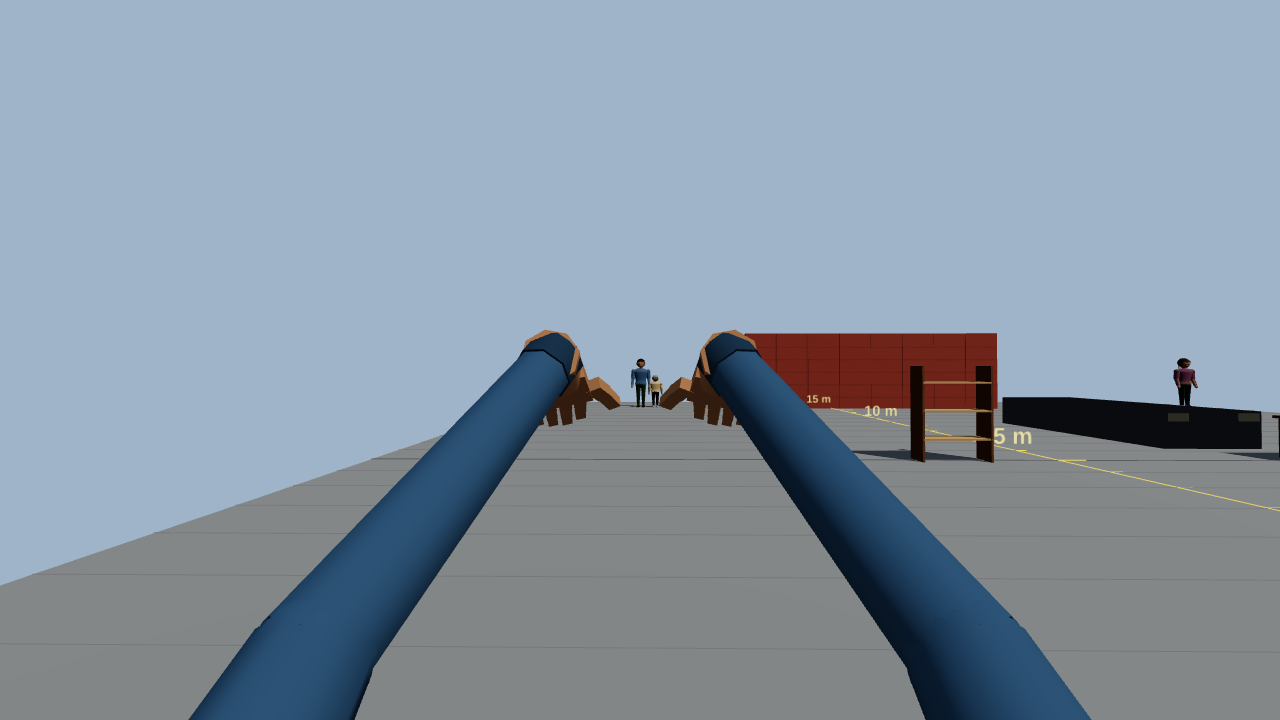
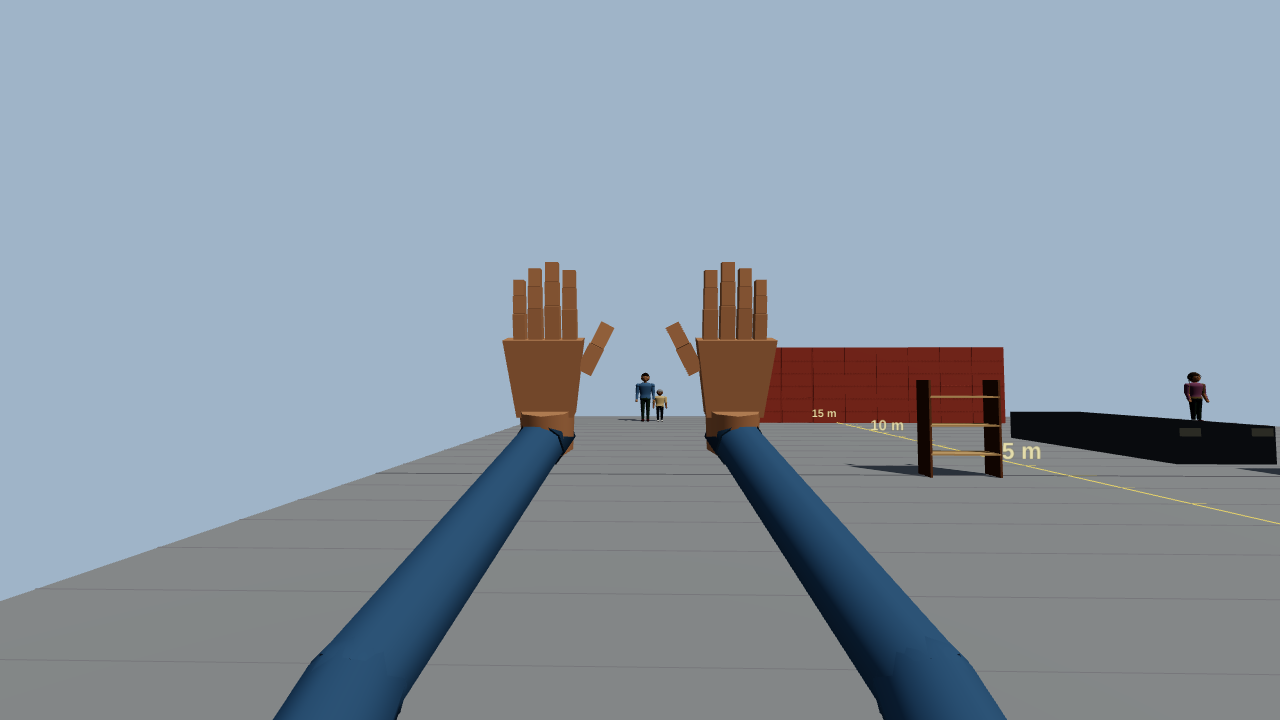
fix(game-characters-three, game-weapons-three): visible pistol support hand, pistol reload to the magazine, handguard hold, shove palms forward
The clip orientation never reached the hand (mixPose wrote over its own input): fixed. Handguns ride higher and nearer the middle so both hands stay in view; the pistol's reload target is under the magazine base; the support hand on long guns sits at 60% of the handguard; the shove has palms forward, fingers up. Tests added; screenshots retaken (fp-pistol-reload new).

Claude-Session: https://claude.ai/code/session_01GuPQ3pcqCNyJdQZbaF8AdD

Changed region(s): [[0.0, 0.3667, 1.0, 1.0], [0.9688, 0.7028, 1.0, 0.7333]]

diff --git a/packages/game-weapons-three/tests/hand-targets.test.ts b/packages/game-weapons-three/tests/hand-targets.test.ts
@@ -106,4 +106,52 @@ describe('hand targets of the weapon in the hands', () => {
     const second = last()!.targets!.R!.position
     expect(Math.hypot(second[0] - first[0], second[1] - first[1], second[2] - first[2])).toBeGreaterThan(0.001)
   })
+
+  it('a pistol reload takes the supporting hand off the grip, to the magazine, and back', () => {
+    const { room, last } = roomWithRecorder()
+    equip(room, 'glock_17')
+    const rest = last()!.targets!.L!.position.slice()
+    room.use()
+    run(room, 0.2)
+    window.dispatchEvent(new KeyboardEvent('keydown', { code: 'KeyR' }))
+    let farthest = 0
+    for (let i = 0; i < 100; i++) {
+      room.update(0.02)
+      const p = last()!.targets!.L!.position
+      farthest = Math.max(farthest, Math.hypot(p[0] - rest[0], p[1] - rest[1], p[2] - rest[2]))
+    }
+    expect(farthest).toBeGreaterThan(0.03)
+    run(room, 3)
+    const back = last()!.targets!.L!.position
+    expect(Math.hypot(back[0] - rest[0], back[1] - rest[1], back[2] - rest[2])).toBeLessThan(0.02)
+  })
+
+  it('both hands of a pistol are inside the view, in front of the camera and not at the bottom edge', () => {
+    const { room, last } = roomWithRecorder()
+    equip(room, 'glock_17')
+    const eye = room.camera
+    for (const side of ['R', 'L'] as const) {
+      const local = eye.worldToLocal(new THREE.Vector3(...last()!.targets![side]!.position))
+      expect(local.z).toBeLessThan(-0.25)
+      expect(Math.atan2(-local.y, -local.z)).toBeLessThan(0.55)
+      expect(Math.abs(Math.atan2(local.x, -local.z))).toBeLessThan(0.5)
+    }
+  })
+
+  it.each(['colt_m4a1', 'ak_47'])('%s: the left hand is under the handguard, past the receiver, about 60 percent of the way to its end', (weapon) => {
+    const { room, last } = roomWithRecorder()
+    equip(room, weapon)
+    const viewmodel = room.scene.getObjectByName('weapon-viewmodel')!
+    viewmodel.updateWorldMatrix(true, true)
+    const inverse = viewmodel.matrixWorld.clone().invert()
+    const box = new THREE.Box3().setFromObject(viewmodel).applyMatrix4(inverse)
+    const left = new THREE.Vector3(...last()!.targets!.L!.position).applyMatrix4(inverse)
+    const right = new THREE.Vector3(...last()!.targets!.R!.position).applyMatrix4(inverse)
+    // the gun lies along -z of the viewmodel (muzzle at min z); the left hand is forward of the right and in the front half
+    const along = (box.max.z - left.z) / (box.max.z - box.min.z)
+    expect(left.z).toBeLessThan(right.z - 0.1)
+    expect(along).toBeGreaterThan(0.6)
+    expect(along).toBeLessThan(0.9)
+    expect(left.y).toBeLessThan(0)
+  })
 })

diff --git a/packages/game-weapons-three/src/fx/hand-hold.ts b/packages/game-weapons-three/src/fx/hand-hold.ts
@@ -15,14 +15,16 @@ export const HAND_HOLD = {
   /** How far down the grip the supporting hand of a pistol sits from the middle. */
   supportDown: 0.036,
   /** Where along the handguard (0 the receiver, 1 the end of the forend) the supporting hand closes. */
-  forendAt: 0.45,
+  forendAt: 0.6,
   /** How far under the handguard the palm sits (half a handguard plus the palm). */
   forendUnder: 0.034,
   /** The grip of a long gun that has no drawn pistol grip: how far under the receiver the hand sits. */
   strapUnder: 0.04,
+  /** How far lower than touching the palm hangs under a handguard, so the fingers close under it and not over it. */
+  forendDrop: 0.008,
   /** Closure of the fingers on a grip and on a forend (0 open, 1 closed). */
   closed: 0.9,
-  forend: 0.75,
+  forend: 0.6,
   /** How fast the supporting hand goes to the magazine and back, per second. */
   magRate: 7,
   /** The hands shrink with the tool: a tool drawn at scale `s` takes hands at `s ** handScaleExponent`. */
@@ -136,18 +138,14 @@ export function holdOfModel(THREE: Three, model: WeaponModel, holderScale: numbe
   } else if (frames) {
     const handguardHeight = frames.receiverHeight * 0.8
     const x = frames.receiverEnd + (frames.handguardEnd - frames.receiverEnd) * HAND_HOLD.forendAt
-    left = { part: root, offset: toRoot(x, frames.barrelY - handguardHeight / 2 - HAND_HOLD.palm, 0), quaternion: forendFrame(THREE) }
+    left = { part: root, offset: toRoot(x, frames.barrelY - handguardHeight / 2 - HAND_HOLD.palm - HAND_HOLD.forendDrop, 0), quaternion: forendFrame(THREE) }
   }
   if (left && parts.mag) {
     const box = new THREE.Box3().setFromObject(parts.mag)
     const center = box.getCenter(new THREE.Vector3())
-    if (handgun) {
-      const local = parts.mag.worldToLocal(V(THREE, center.x, center.y, center.z))
-      leftMagazine = { part: parts.mag, offset: local.add(V(THREE, 0, -0.01, 0)), quaternion: forendFrame(THREE) }
-    } else {
-      const local = parts.mag.worldToLocal(V(THREE, center.x, box.min.y - HAND_HOLD.palm, center.z))
-      leftMagazine = { part: parts.mag, offset: local, quaternion: forendFrame(THREE) }
-    }
+    // the magazine well of a handgun is inside the grip: the hand goes under its base, where the new magazine is slapped in
+    const local = parts.mag.worldToLocal(V(THREE, center.x, box.min.y - HAND_HOLD.palm - (handgun ? 0.02 : 0), center.z))
+    leftMagazine = { part: parts.mag, offset: local, quaternion: forendFrame(THREE) }
   }
   return {
     right,

diff --git a/packages/game-characters-three/src/first-person/arms.ts b/packages/game-characters-three/src/first-person/arms.ts
@@ -260,6 +260,7 @@ export function createFirstPersonArms(THREE: Three, options: FirstPersonArmsOpti
   const bobOffset = new THREE.Vector3()
   const desired = newPose(THREE)
   const channelPose = newPose(THREE)
+  const mixed = newPose(THREE)
   const bone = createTwoBone(THREE)
   const shoulder = new THREE.Vector3()
   const wristAt = new THREE.Vector3()
@@ -392,8 +393,8 @@ export function createFirstPersonArms(THREE: Three, options: FirstPersonArmsOpti
         const channel = sample?.[side]
         if (channel && channel.w > 0) {
           fromChannel(channel, side, arm.shown, channelPose)
-          mixPose(THREE, channelPose, arm.shown, channelPose, channel.w)
-          drawArm(arm, channelPose)
+          mixPose(THREE, mixed, arm.shown, channelPose, channel.w)
+          drawArm(arm, mixed)
         } else drawArm(arm, arm.shown)
       }
 
@@ -403,7 +404,8 @@ export function createFirstPersonArms(THREE: Three, options: FirstPersonArmsOpti
       if (foot && leg.visible) {
         restPose(rig.foot, false, footRest)
         fromChannel(foot, 'R', footRest, footPose)
-        mixPose(THREE, footPose, footRest, footPose, foot.w)
+        mixPose(THREE, mixed, footRest, footPose, foot.w)
+        copyPose(footPose, mixed)
         drawLeg(footPose)
       }
       if (run && run.time >= run.clip.duration) run = null

diff --git a/packages/game-weapons-three/src/fx/viewmodel.ts b/packages/game-weapons-three/src/fx/viewmodel.ts
@@ -35,6 +35,8 @@ import type { Hold } from './hand-hold'
 const PI = Math.PI
 // where the weapon sits against the camera: right, down and ahead; long guns are drawn smaller so they do not fill the view
 const HAND_OFFSET: [number, number, number] = [0.2, -0.2, -0.42]
+/** A handgun is held in both hands, so it rides higher and nearer the middle than a long gun: both hands stay in the view. */
+const HANDGUN_OFFSET: [number, number, number] = [0.1, -0.12, -0.44]
 const HEAT_DISPLAY_MAX_FALLBACK = 120
 // the launcher has no calibre: its shot is the game's `explosao` class, at the volume of a mid-sized blast
 const LAUNCH_VOLUME = 0.6
@@ -232,7 +234,8 @@ export function createViewmodel(options: ViewmodelOptions): Viewmodel {
   }
 
   const place = (): void => {
-    const [x, y, z] = HAND_OFFSET
+    const family = session?.model.parts.family
+    const [x, y, z] = family === 'pistol' || family === 'revolver' ? HANDGUN_OFFSET : HAND_OFFSET
     hand.position.set(x, y, z).applyQuaternion(camera.quaternion).add(camera.position)
     hand.quaternion.copy(camera.quaternion)
     hand.updateMatrixWorld(true)

diff --git a/packages/game-characters-three/tests/first-person-arms.test.ts b/packages/game-characters-three/tests/first-person-arms.test.ts
@@ -107,6 +107,20 @@ describe('createFirstPersonArms', () => {
     expect(arms.handPose('R').position.z).toBeLessThan(guard.z - 0.1)
   })
 
+  it('a shove at its impact has both palms facing forward with the fingers up (the clip orientation reaches the hand)', () => {
+    const arms = createFirstPersonArms(THREE, { clips: FIRST_PERSON_CLIPS })
+    step(arms, 0.6, { camera: camera(), stance: 'relaxed' })
+    arms.play('shove_two_hands')
+    step(arms, 0.26, { camera: camera(), stance: 'relaxed' })
+    for (const side of ['R', 'L'] as const) {
+      const { quaternion } = arms.handPose(side)
+      const fingers = new THREE.Vector3(1, 0, 0).applyQuaternion(quaternion)
+      const back = new THREE.Vector3(0, 1, 0).applyQuaternion(quaternion)
+      expect(fingers.y).toBeGreaterThan(0.85)
+      expect(back.z).toBeGreaterThan(0.5)
+    }
+  })
+
   it('a kick shows the right leg while it lasts', () => {
     const arms = createFirstPersonArms(THREE, { clips: FIRST_PERSON_CLIPS })
     const leg = arms.root.getObjectByName('first-person-leg')!
